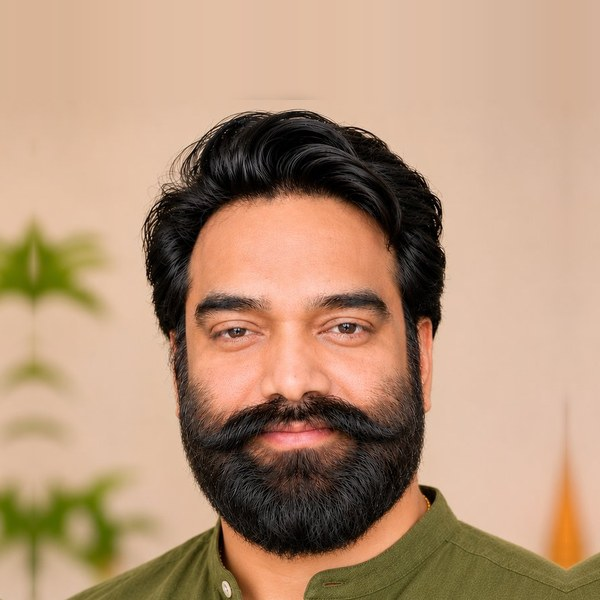
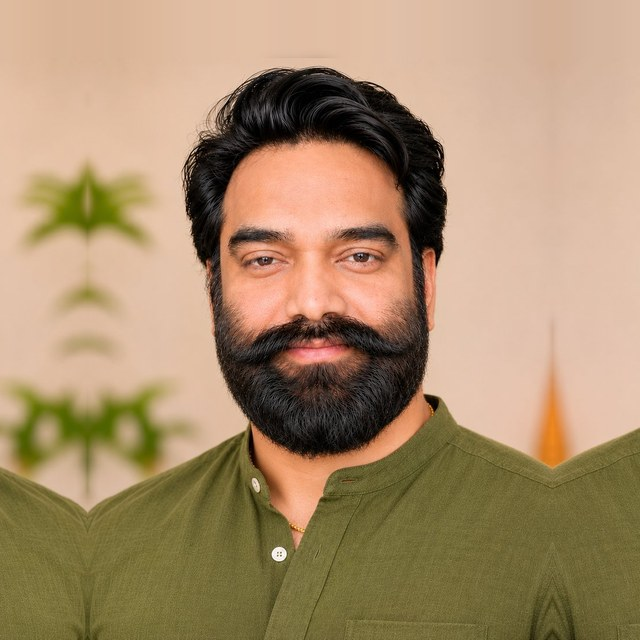
2027 page: photo shows head and chest, centred; worldwide wording in about section
Claude-Session: https://claude.ai/code/session_01LwY2GgZ1mLP62gq51gXVbo

diff --git a/2027.html b/2027.html
@@ -158,8 +158,8 @@ details ul{margin:8px 0 0 20px}
 @keyframes bow{50%{transform:scale(1.07) rotate(-2deg)}}
 
 .guide .g{display:grid;gap:26px;align-items:center;grid-template-columns:1fr}
-@media(min-width:800px){.guide .g{grid-template-columns:240px 1fr}}
-.guide img{width:200px;height:200px;border-radius:50%;object-fit:cover;object-position:50% 40%;border:4px solid var(--gold);box-shadow:0 0 0 8px #D49A2A33;justify-self:center}
+@media(min-width:800px){.guide .g{grid-template-columns:270px 1fr}}
+.guide img{width:230px;height:230px;border-radius:50%;object-fit:cover;object-position:50% 50%;border:4px solid var(--gold);box-shadow:0 0 0 8px #D49A2A33;justify-self:center}
 .guide .role{font-size:13px;letter-spacing:.14em;text-transform:uppercase;color:var(--ember);font-weight:600;margin:4px 0 12px}
 .guide .g p+p{margin-top:12px}
 .guide .pull{font-family:Fraunces,serif;font-size:21px;line-height:1.35;color:var(--forest);border-left:3px solid var(--gold);padding-left:16px;margin-top:16px}
@@ -353,11 +353,11 @@ footer img{height:40px;margin:0 auto 8px}
 
 <section class="guide"><div class="wrap">
  <div class="g">
- <img src="/new/img/surya-square.jpg" alt="Surya Singh, founder of Stay Natural" width="200" height="200">
+ <img src="/new/img/surya-square.jpg" alt="Surya Singh, founder of Stay Natural" width="230" height="230">
  <div><h2>The person behind it all</h2><p class="role">Surya Singh · Founder of Stay Natural · Creator of Decode You</p>
  <p>Surya has been teaching and working with people since 2011, in yoga, wellbeing and traditional knowledge. It began with one belief: every person is different, so the way they live should be different too.</p>
  <p>Over the years that became everything you see here. Sunday Reset, his weekly live session. Life Counselling, one to one, where he looks at your nature and your life together. Decode You, where the nine planets and five elements become a practical plan for your food, your routine and your everyday choices. And My Space, so none of it is left on a page you forget.</p>
- <p>He draws on Yoga, Ayurveda and Vedic astrology, and keeps it plain and practical. You need no prior knowledge. People across the UK and Ireland work with him online, and he has also given a talk in person in the UK.</p>
+ <p>He draws on Yoga, Ayurveda and Vedic astrology, and keeps it plain and practical. You need no prior knowledge. People from around the world work with him online.</p>
  <p class="pull">Understand yourself before deciding how you should live.</p>
  <p>When you begin, you are not handed a generic plan. You work with the person who built the programme, in your sessions, from the first to the last.</p></div>
  </div>
